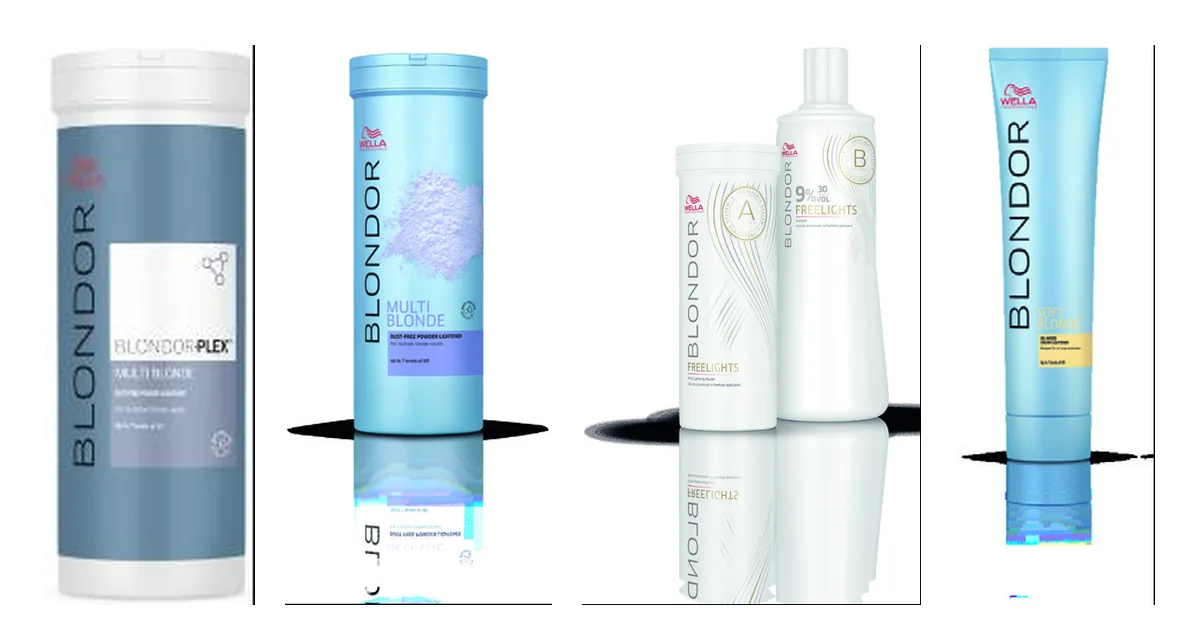
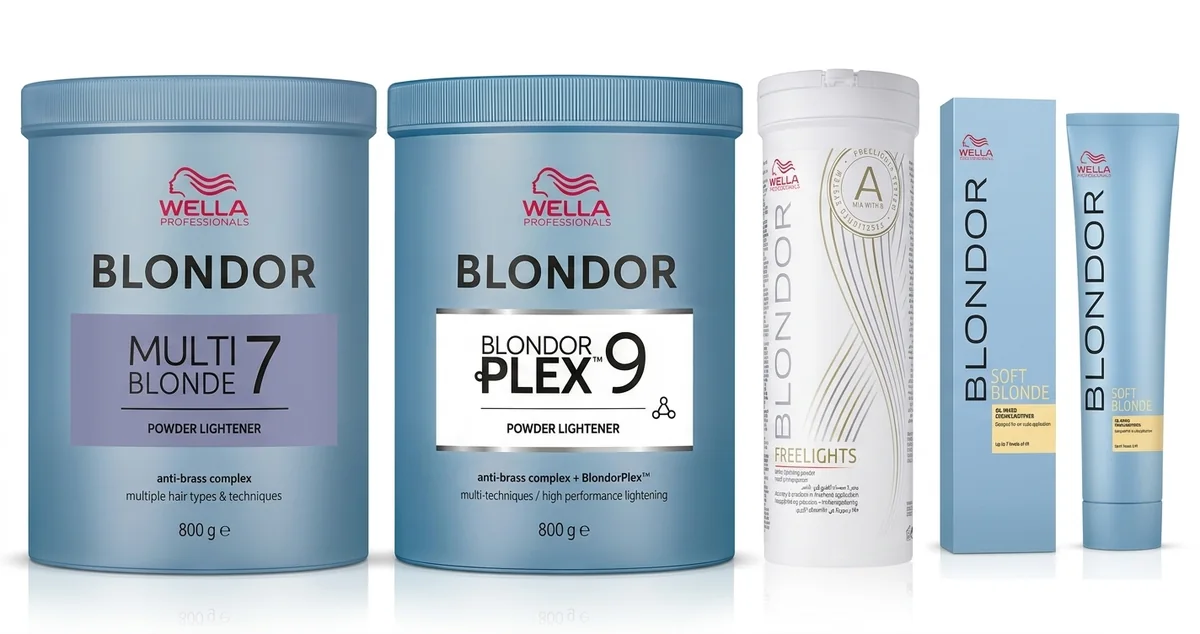
Правки Blondor по фидбэку: реальная замена окислителей, честные примечания, конверсия номеров Koleston/Color Touch/Londa
- Freelights: Welloxon Perfect на практике даёт тот же результат, что фирменный окислитель Freelights — убрали лишний "нужен только родной окислитель" и связанное предупреждение про отсутствие в прайсе.
- Убрали маркетинговое "обязательно завершать Wellaplex №2" у BlondorPlex — реальной необходимости в этом шаге нет.
- Обложка статьи заменена на предоставленную пользователем композицию.
- Добавлена честная заметка в Koleston Perfect, Color Touch и Londa Professional: номерная система (глубина/тон) общая у Wella и Londa — Koleston↔Londa (аммиачная), Color Touch↔Londa Demi (безаммиачная), можно заменять один бренд на другой по коду. Проверено на реальных данных сайта: коды с одинаковым номером в обоих датасетах совпадают по описанию глубины/тона.
- .checklist переведён с flex-wrap на grid (auto-fit) на всех экранах, не только мобильных — раньше короткий список с одной длинной пилюлей выглядел визуально неровно.
- Сплошной декоративный "круг на 100%" в виджете .timer (не показывал никакой реальной пропорции) заменён на настоящую иконку песочных часов — понятнее передаёт "жёсткий лимit времени", тот же фикс применён и к аналогичному случаю в Koleston (.service-card).

Claude-Session: https://claude.ai/code/session_01LWuhCoTKP3XKuc7uh2sHgz

diff --git a/src/content/articles/2026-08-30-wella-blondor.md b/src/content/articles/2026-08-30-wella-blondor.md
@@ -35,12 +35,11 @@ verifiedDate: 2026-08-30
     <p>На коже головы — окислитель не выше 6%. До 9 уровней осветления, до 97% меньше повреждения волоса за счёт встроенной защиты связей. Подходит и для ранее окрашенных волос.</p>
   </div>
   <div class="timer">
-    <span class="wheel" style="--split: 100%"></span>
+    <span class="clock-icon" aria-hidden="true"><svg viewBox="0 0 24 24" fill="none" stroke="currentColor" stroke-width="2" stroke-linecap="round" stroke-linejoin="round"><path d="M6 2h12"/><path d="M6 22h12"/><path d="M6 2c0 5 4 6 6 8 2-2 6-3 6-8"/><path d="M6 22c0-5 4-6 6-8 2 2 6 3 6 8"/></svg></span>
     <span class="time-text">Не более <b>50 минут</b></span>
   </div>
 </div>
 
-<div class="callout"><b>Обязательный финальный шаг.</b> После BlondorPlex смыть состав и нанести Wellaplex №2 Bond Stabilizer на 10 минут — так закрепляется эффект защиты связей волоса. Сам Wellaplex №2 сейчас не в прайсе Zilma — уточняйте отдельно у поставщика или в салоне.</div>
 
 <ul class="checklist">
   <li><span class="check-icon">✓</span>Окрашивание всей массы волос / Частичное окрашивание / Мультитональное окрашивание</li>
@@ -61,7 +60,7 @@ verifiedDate: 2026-08-30
     <p>На коже головы — окислитель не выше 6%. До 7 уровней осветления. Любимый инструмент колористов — базовый продукт линейки, содержит анти-жёлтые молекулы против рыжины при осветлении.</p>
   </div>
   <div class="timer">
-    <span class="wheel" style="--split: 100%"></span>
+    <span class="clock-icon" aria-hidden="true"><svg viewBox="0 0 24 24" fill="none" stroke="currentColor" stroke-width="2" stroke-linecap="round" stroke-linejoin="round"><path d="M6 2h12"/><path d="M6 22h12"/><path d="M6 2c0 5 4 6 6 8 2-2 6-3 6-8"/><path d="M6 22c0-5 4-6 6-8 2 2 6 3 6 8"/></svg></span>
     <span class="time-text">Не более <b>50 минут</b></span>
   </div>
 </div>
@@ -74,27 +73,23 @@ verifiedDate: 2026-08-30
 
 ## Freelights — мелирование без фольги
 
-![Blondor Freelights с окислителем Freelights](/images/articles/2026-08-30-wella-blondor/freelights.webp)
-
 <div class="mix-card">
   <div class="wheel-badge">
     <span class="wheel" style="--split: 40%"></span>
     <span class="wheel-label">1 : 1.5</span>
-    <span class="wheel-caption">Freelights · окислитель Freelights</span>
+    <span class="wheel-caption">Freelights · Welloxon Perfect</span>
   </div>
   <div class="mix-body">
-    <p><b>Смешивание.</b> 1 часть пудры Freelights + от 1 до 3 частей (рекомендовано 1:1,5) <b>окислителя Freelights</b> — не Welloxon Perfect, у продукта свой отдельный окислитель (6%, 9% или 12%).</p>
+    <p><b>Смешивание.</b> 1 часть пудры Freelights + от 1 до 3 частей (рекомендовано 1:1,5) окислителя (6%, 9% или 12%). Официально Wella рекомендует свой отдельный окислитель Freelights, но на практике обычный Welloxon Perfect той же концентрации даёт тот же результат — отдельный продукт Freelights брать не обязательно.</p>
     <p>Пудра с глиной и технологией Actifuse — не растекается и не «плывёт» при открытой технике нанесения (балаяж, растяжка цвета от руки). До 7 уровней осветления, подходит и для натуральных, и для ранее окрашенных волос.</p>
   </div>
   <div class="timer">
-    <span class="wheel" style="--split: 100%"></span>
+    <span class="clock-icon" aria-hidden="true"><svg viewBox="0 0 24 24" fill="none" stroke="currentColor" stroke-width="2" stroke-linecap="round" stroke-linejoin="round"><path d="M6 2h12"/><path d="M6 22h12"/><path d="M6 2c0 5 4 6 6 8 2-2 6-3 6-8"/><path d="M6 22c0-5 4-6 6-8 2 2 6 3 6 8"/></svg></span>
     <span class="time-text">Не более <b>50 минут</b></span>
   </div>
 </div>
 
 <div class="callout"><b>Техника нанесения.</b> Держите прядь в натяжении. Начинайте с середины длины и растушёвывайте к корням, а не наоборот, — так не будет резкой границы. Продукт наносится только поверх волоса, без контакта с кожей головы.</div>
-
-<div class="callout"><b>Окислитель Freelights в прайсе Zilma сейчас отдельно не продаётся</b> — уточняйте наличие у поставщика перед тем, как планировать эту технику именно на Freelights.</div>
 
 <ul class="checklist">
   <li><span class="check-icon">✓</span>Частичное окрашивание / Мультитональное окрашивание</li>
@@ -103,8 +98,6 @@ verifiedDate: 2026-08-30
 </ul>
 
 ## Крем Soft Blonde 7+
-
-![Blondor Soft Blonde — блондирующий крем](/images/articles/2026-08-30-wella-blondor/softblonde.webp)
 
 <div class="mix-card">
   <div class="wheel-badge">
@@ -117,7 +110,7 @@ verifiedDate: 2026-08-30
     <p>Единственный кремовый (не порошковый) продукт в линейке Blondor. Обогащён защитными липидами против потери влаги волосом. До 7 уровней осветления, подходит и для техник с контактом с кожей головы, и без него.</p>
   </div>
   <div class="timer">
-    <span class="wheel" style="--split: 100%"></span>
+    <span class="clock-icon" aria-hidden="true"><svg viewBox="0 0 24 24" fill="none" stroke="currentColor" stroke-width="2" stroke-linecap="round" stroke-linejoin="round"><path d="M6 2h12"/><path d="M6 22h12"/><path d="M6 2c0 5 4 6 6 8 2-2 6-3 6-8"/><path d="M6 22c0-5 4-6 6-8 2 2 6 3 6 8"/></svg></span>
     <span class="time-text">Не более <b>50 минут</b></span>
   </div>
 </div>
@@ -139,9 +132,11 @@ verifiedDate: 2026-08-30
 
 ## После осветления
 
-Смойте состав тёплой водой и промойте волосы шампунем. Официальная рекомендация Wella — стабилизатор цвета и блеска **Blondor Seal & Care** сразу после смывки (кислотный pH, запечатывает результат осветления). Этого конкретного продукта сейчас нет в прайсе Zilma — для домашнего ухода за осветлёнными волосами можно предложить клиенту любой шампунь/бальзам для окрашенных волос из уже имеющегося ассортимента.
+Смойте состав тёплой водой и промойте волосы шампунем. Официальная рекомендация Wella — стабилизатор цвета и блеска **Blondor Seal & Care** сразу после смывки (кислотный pH, запечатывает результат осветления). Этого конкретного продукта в прайсе Zilma нет, но у **Londa** — доступной линии от того же производителя (Wella Company), не премиум-сегмента, а более бюджетной сестринской марки — есть свои «Стабилизатор для сохранения цвета» и «Шампунь для сохранения цвета и блеска» с похожим действием. Оба уже разобраны с ценами и кнопками заказа в гиде [Londa Professional](/articles/2026-08-29-londa-professional/).
 
 ## Что заказать
+
+Окислители Welloxon Perfect 1,9% и 4% — это те же самые продукты, что официально используются как «эмульсия Color Touch» для деми-перманентного тонирования: отдельного, отдельно названного окислителя под брендом Color Touch у Wella не существует.
 
 <div class="kit-table-wrap">
 <table class="kit-table">
@@ -162,4 +157,3 @@ verifiedDate: 2026-08-30
 </table>
 </div>
 
-<p class="callout">Если какого-то товара Wella нет в наличии, напишите в комментариях — возможно оформление под заказ.</p>

diff --git a/src/content/articles/2026-08-13-koleston-perfect.md b/src/content/articles/2026-08-13-koleston-perfect.md
@@ -46,7 +46,6 @@ verifiedDate: 2026-08-23
 ### Уходовые техники между окрашиваниями
 
 <div class="service-card">
-  <span class="wheel" style="--split: 100%"></span>
   <div>
     <p class="service-title">Pure Soft Balance</p>
     <p>Добавляет лёгкий оттенок и свежий блеск, поддерживая чистый результат цвета от визита к визиту. После окончания времени выдержки хорошо смочить волосы водой (для Special Blonde — 100 мл) и проэмульгировать состав по длине и кончикам.</p>
@@ -237,5 +236,7 @@ verifiedDate: 2026-08-23
 **Цветовое уравнение (Colour Equation).** При выборе оптимального решения для клиента на консультации нужно учитывать три составляющих: тон кожи, цвет глаз и цвет волос. Научно-исследовательская группа Wella Professionals с помощью технологии отслеживания взгляда (eye tracking) доказала: самый привлекательный результат достигается, когда одна из трёх составляющих выделяется и контрастирует с двумя другими. Используйте персонализированную палитру оттенков на консультации с клиентом, чтобы подобрать и показать наиболее выигрышный результат.
 
 ## Палитра оттенков
+
+<div class="callout"><b>Нет под рукой Koleston Perfect нужного оттенка?</b> Номерная система (глубина/тон) у Wella и Londa общая — один и тот же код на постоянной аммиачной краске означает один и тот же результат. Например, Koleston 7/0 и Londa 7-0 — оба «блонд натуральный». Можно смело заменять один бренд на другой по коду, если под рукой оказалась только Londa Professional — подробный разбор соответствия будет отдельной статьёй.</div>
 
 Палитра включает линейки **Pure Naturals**, **Rich Naturals**, **Special Blonde** (с подгруппами Natural/Warm/Cool, Resistant/Cover, Cool/Cover/Ultra/Pure), **Deep Browns**, **Vibrant Reds** и **Special Mix/Clear**.

diff --git a/src/content/articles/2026-08-29-londa-professional.md b/src/content/articles/2026-08-29-londa-professional.md
@@ -195,4 +195,6 @@ verifiedDate: 2026-08-29
 
 ## Палитра оттенков
 
+<div class="callout"><b>Нет под рукой Londa нужного оттенка?</b> Номерная система (глубина/тон) у Londa и Wella общая: Londa Professional (аммиачная) по коду соответствует Koleston Perfect, а Londa Demi-Permanent Ammonia Free — Color Touch. Один и тот же код у обоих брендов означает один и тот же результат, можно смело заменять один на другой. Подробный разбор соответствия будет отдельной статьёй.</div>
+
 <div class="callout"><b>Микс-тона — это концентраты, не самостоятельные оттенки.</b> Добавляются в небольшом количестве к базовому тону для корректировки — поэтому на палитре они выглядят гораздо ярче и насыщеннее, чем обычные оттенки для волос.</div>

diff --git a/src/content/articles/2026-08-13-color-touch.md b/src/content/articles/2026-08-13-color-touch.md
@@ -92,5 +92,7 @@ verifiedDate: 2026-08-23
 
 ## Палитра оттенков
 
+<div class="callout"><b>Нет под рукой Color Touch нужного оттенка?</b> Номерная система (глубина/тон) у Wella и Londa общая для деми-перманентных безаммиачных линеек — один и тот же код на Color Touch и на Londa Demi-Permanent Ammonia Free означает один и тот же результат. Можно смело заменять один бренд на другой по коду — подробный разбор соответствия будет отдельной статьёй.</div>
+
 Палитра Color Touch разработана так, чтобы точно совпадать с оттенками Koleston Perfect и служить деми-перманентным дополнением к перманентному окрашиванию: Pure Naturals, Rich Naturals, Deep Browns, Vibrant Reds, Special Mix, Plus.
 
